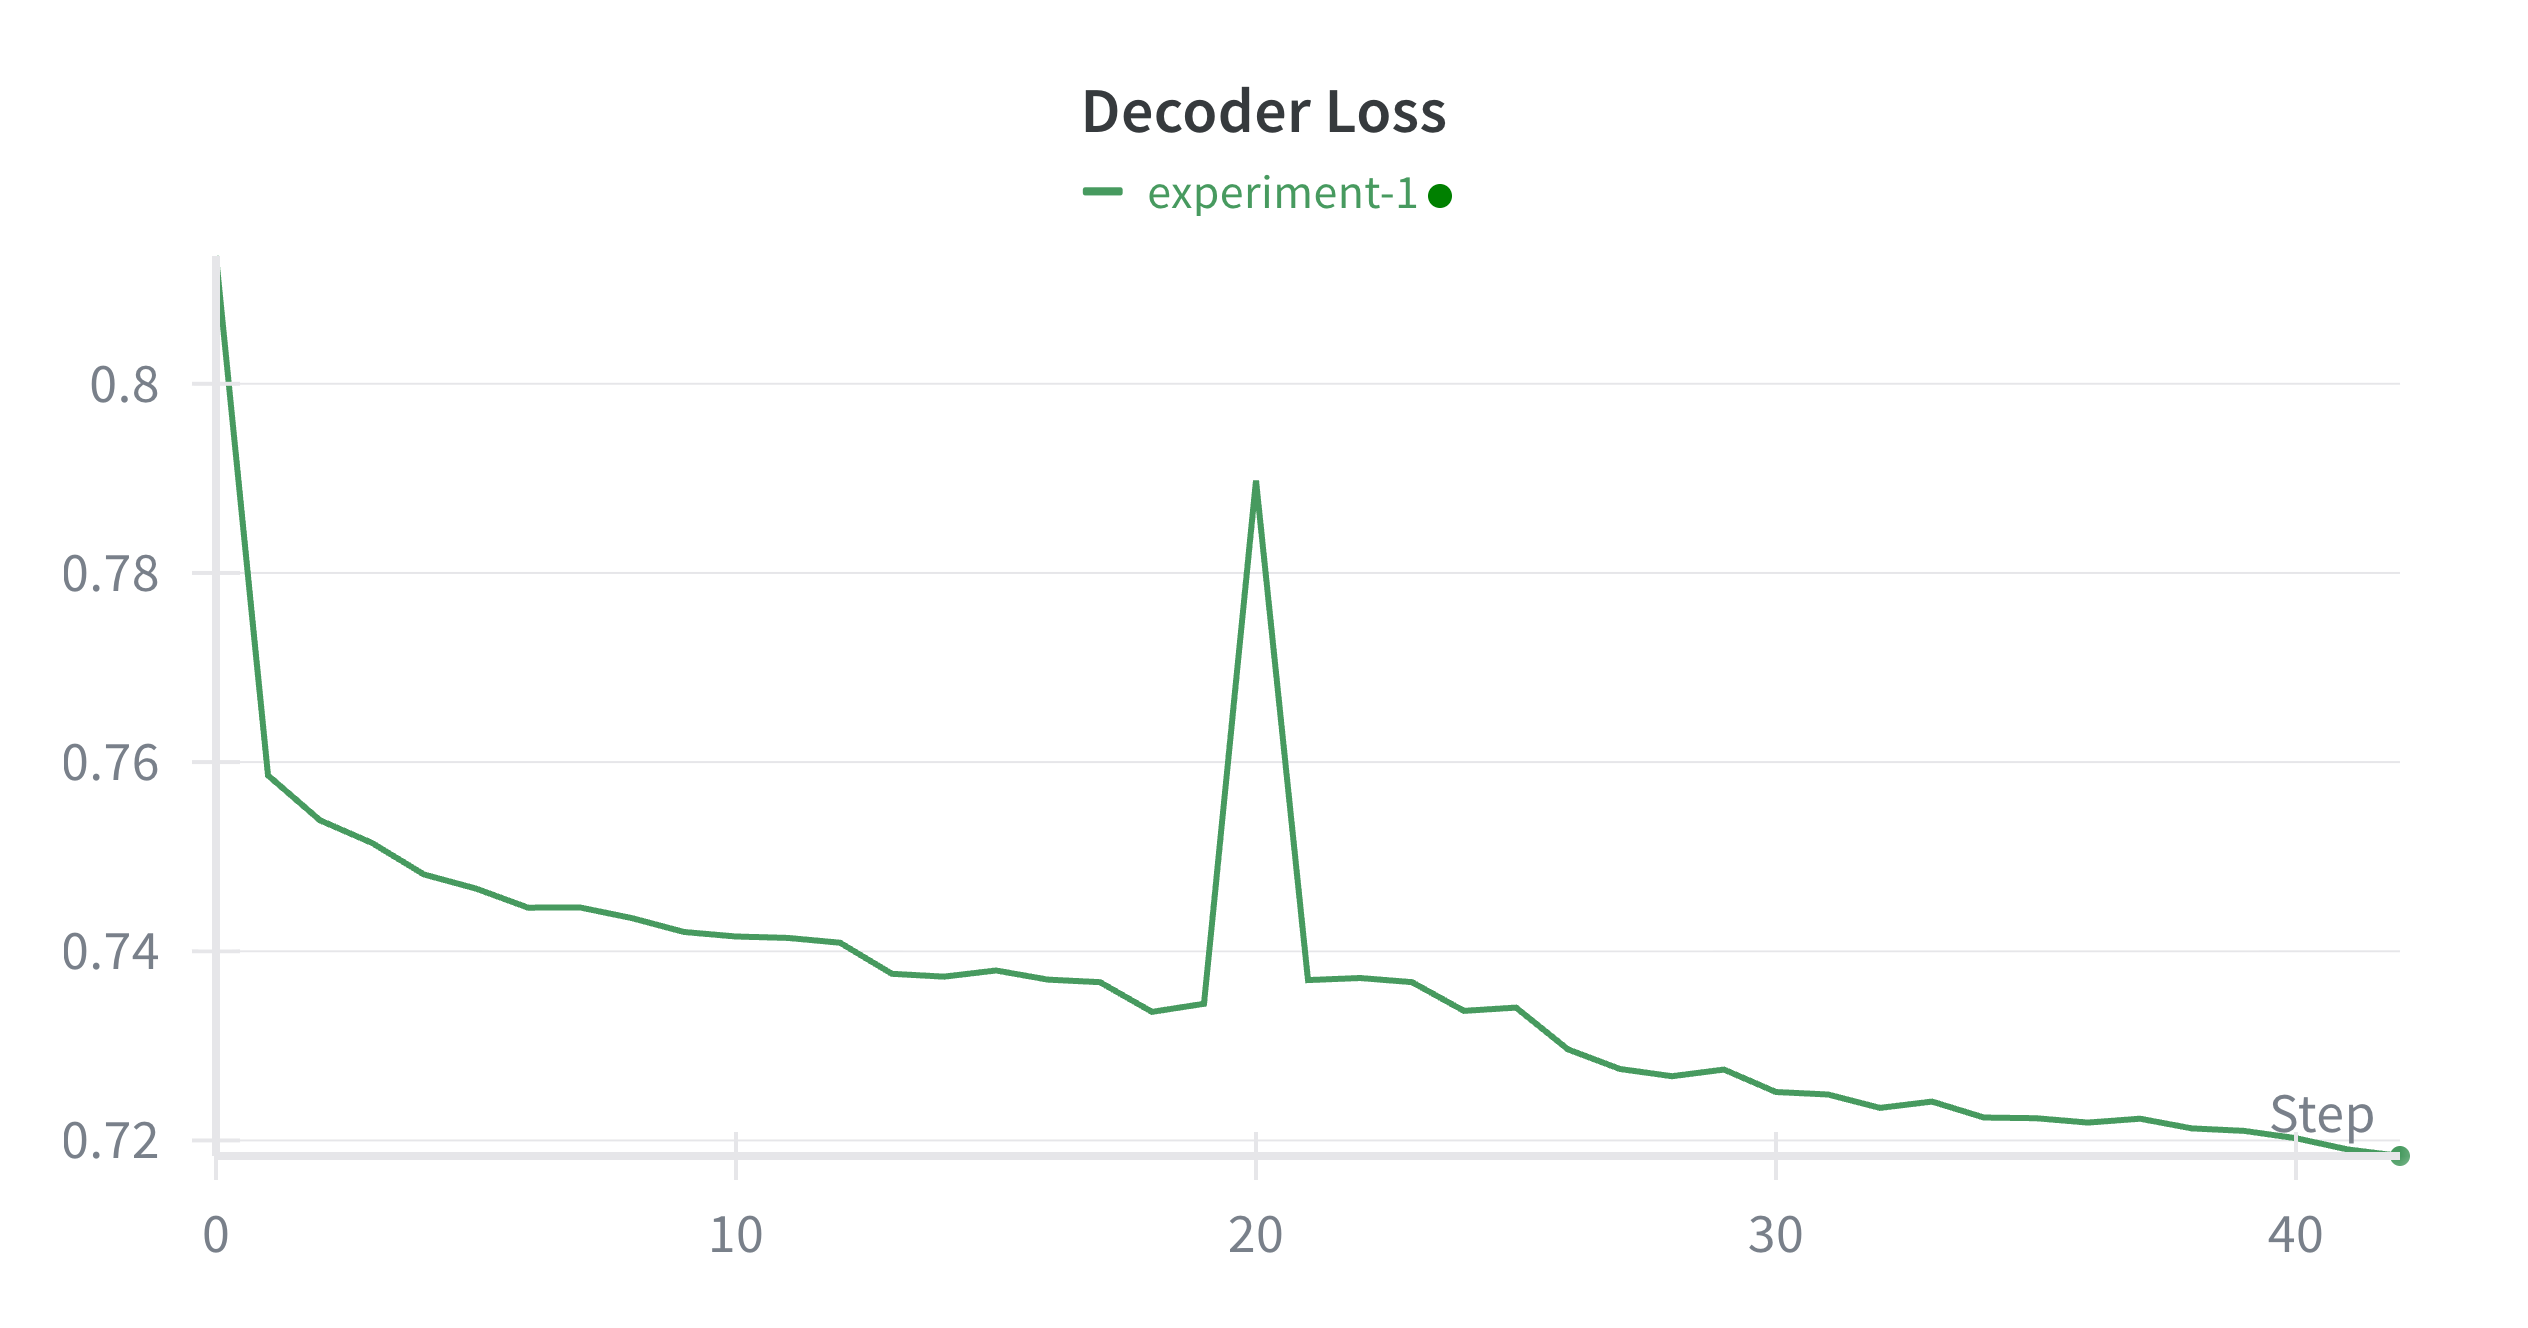
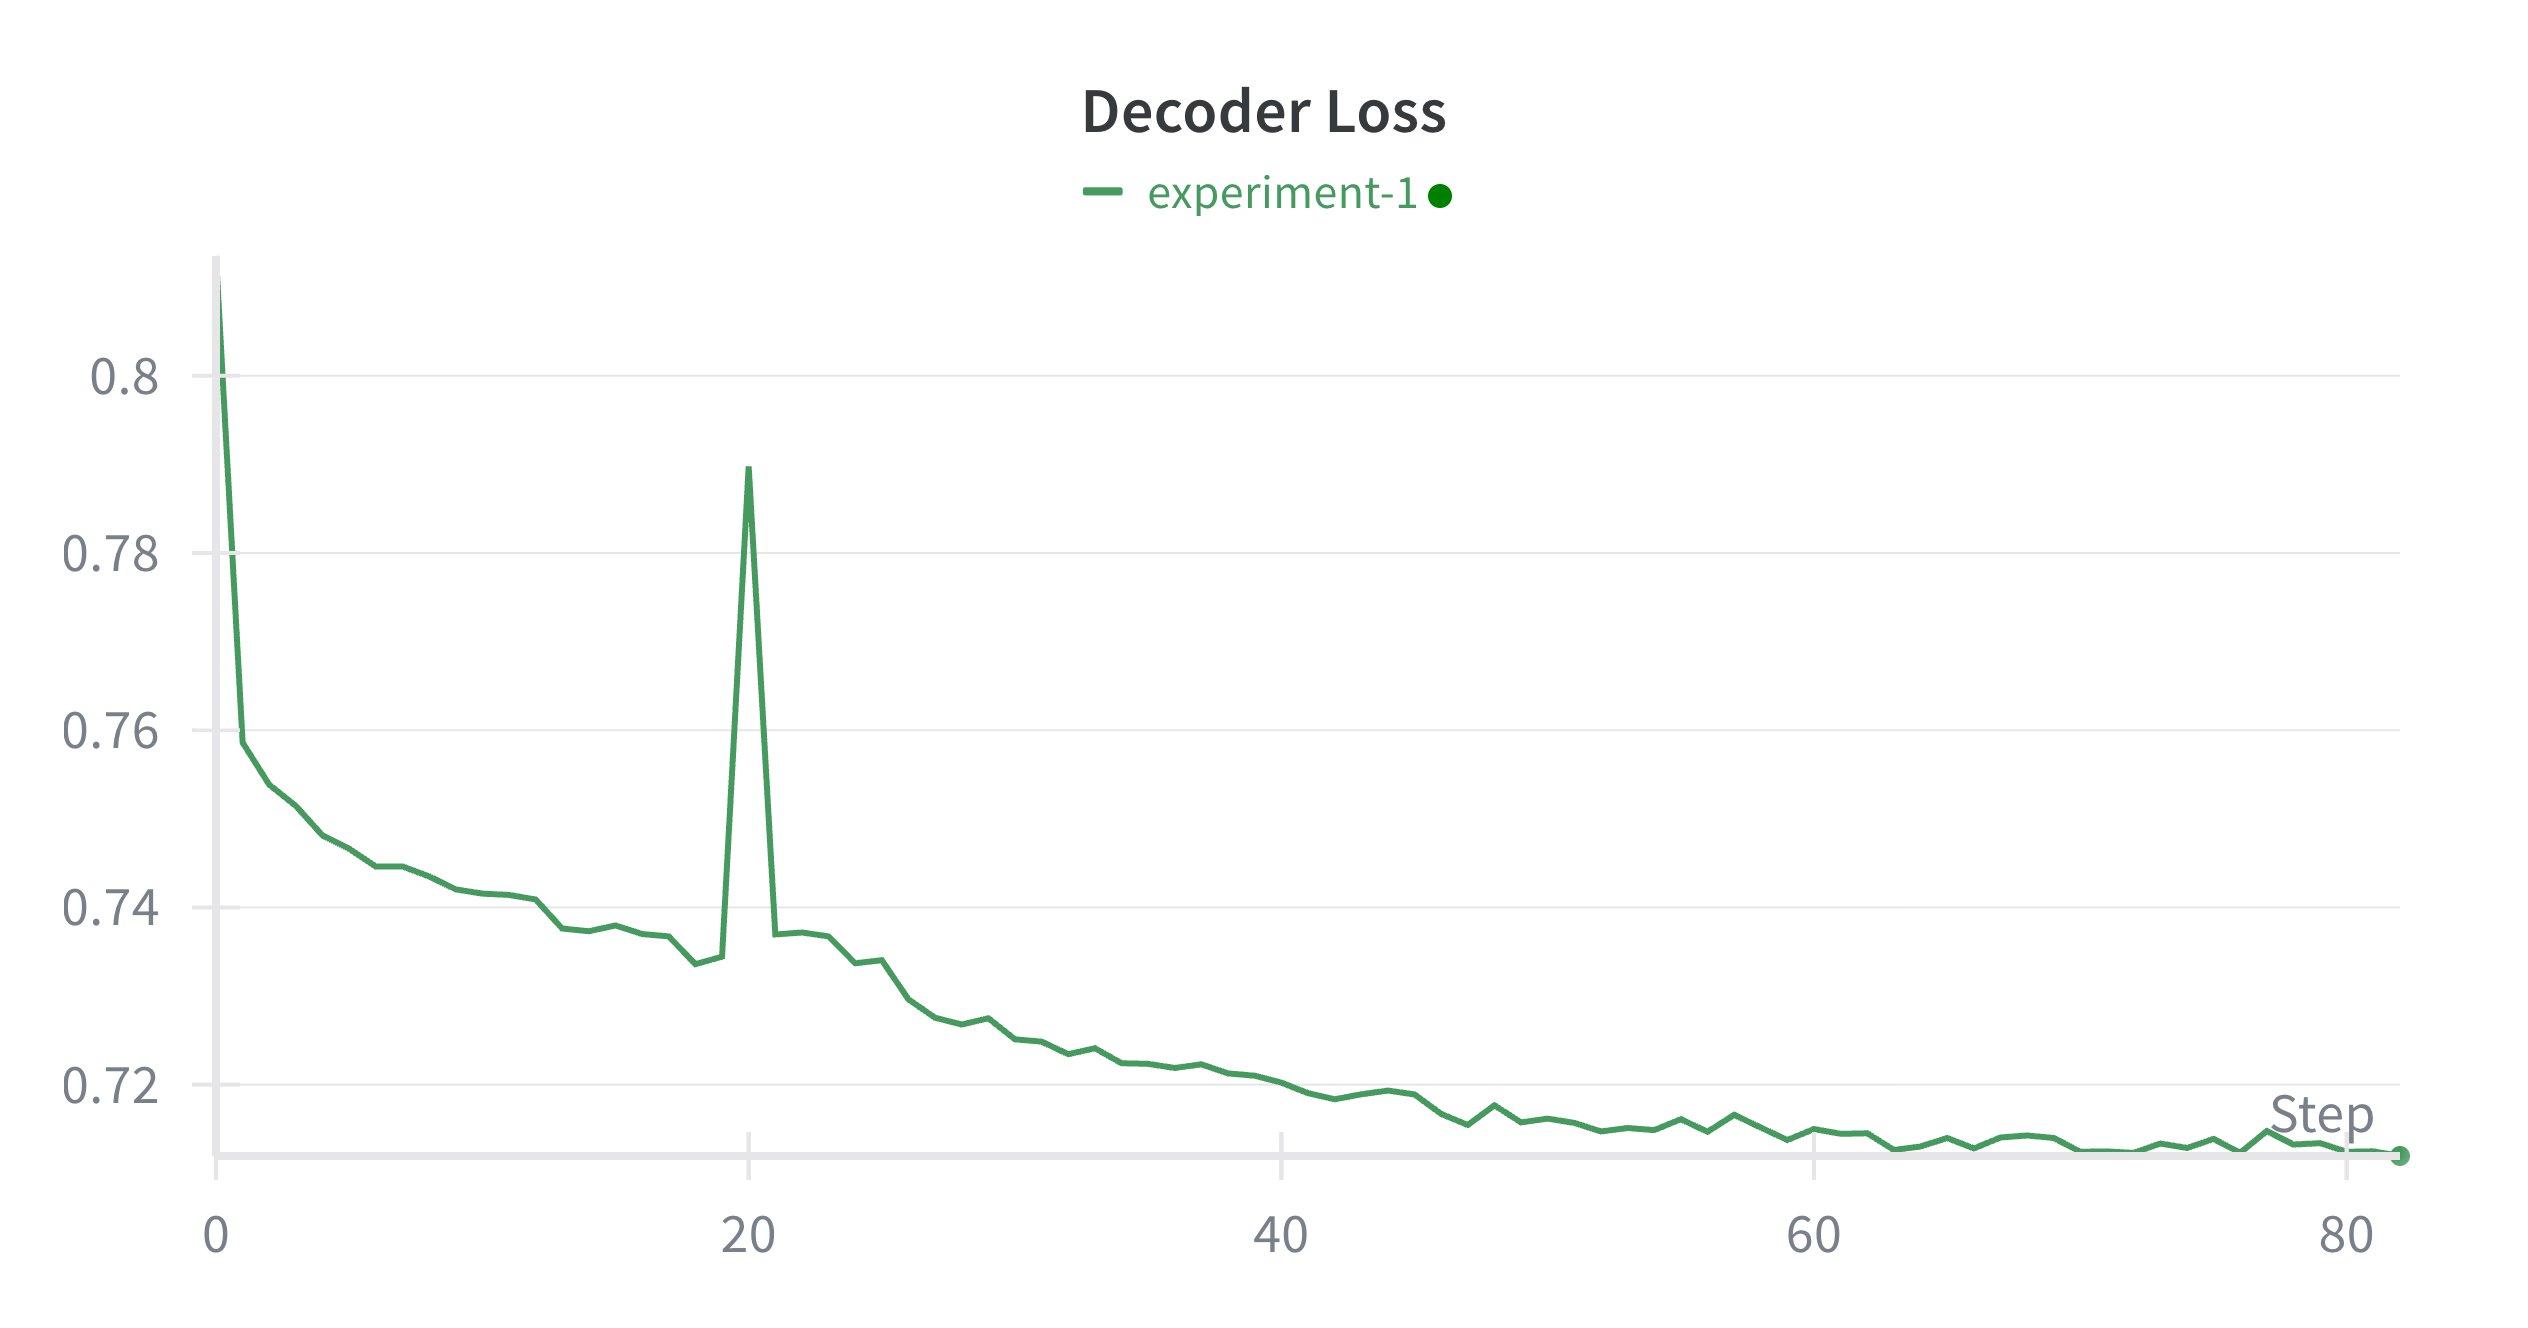
Update in Training

diff --git a/README.md b/README.md
@@ -72,7 +72,7 @@ This project describes my implementation of a **Text-to-Image Diffusion Transfor
   * Prompt: *"Two dogs running away from each other."*
   * Output:
 
-  ![Generated Output](Images/outE43.png)
+  ![Generated Output](Images/output_E82.png)
 
 
 ---
